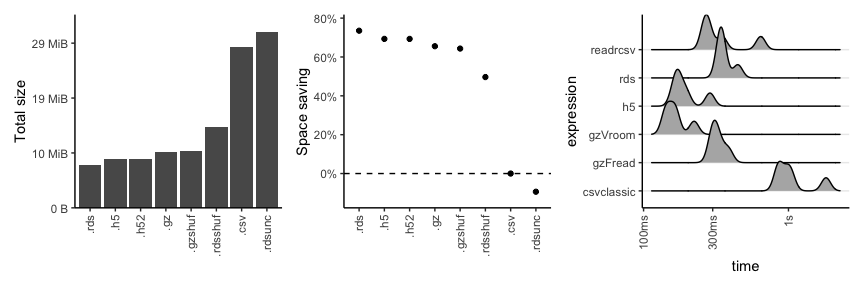
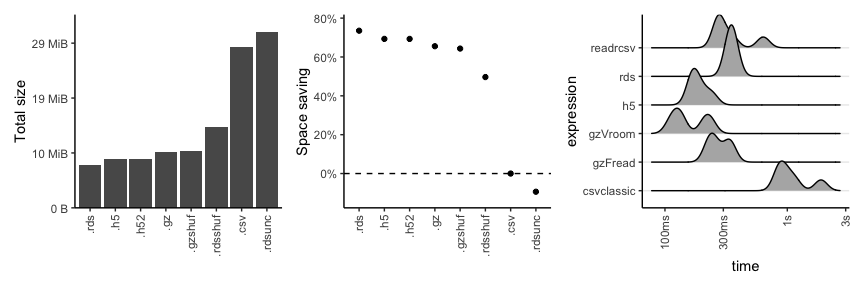
update

diff --git a/README.md b/README.md
@@ -5,10 +5,20 @@ The package that I found can be used for HDF5 in R is rhdf5. It is a
 wrapper for the C library HDF5. The package is available on
 bioconductor,
 [here](https://www.bioconductor.org/packages/devel/bioc/vignettes/rhdf5/inst/doc/rhdf5.html).
+
 The idea is to try multiple ways to store the data, see how they
 compress the data against the baseline CSV format and how fast can you
-read from them. \## Conclusion The idea is that the rds if used accor
-\## Code
+read from them.
+
+## Conclusion
+
+The idea is that the rds is better in comrpession (by little), if used
+accordingly. It’s not obvious how to use accordingly though.
+
+The hdf5 however seems to be faster to read however there is a weird way
+to do so.
+
+## Code
 
 ``` r
 set.seed(42)
@@ -181,8 +191,8 @@ autoplot(bm_df,type = "ridge") + theme_classic() +
 
     ## Loading required namespace: tidyr
 
-    ## Picking joint bandwidth of 0.0321
+    ## Picking joint bandwidth of 0.0516
 
 <img src="README_files/figure-gfm/unnamed-chunk-2-1.png" style="display: block; margin: auto;" />
 
-    ## Picking joint bandwidth of 0.0321
+    ## Picking joint bandwidth of 0.0516
